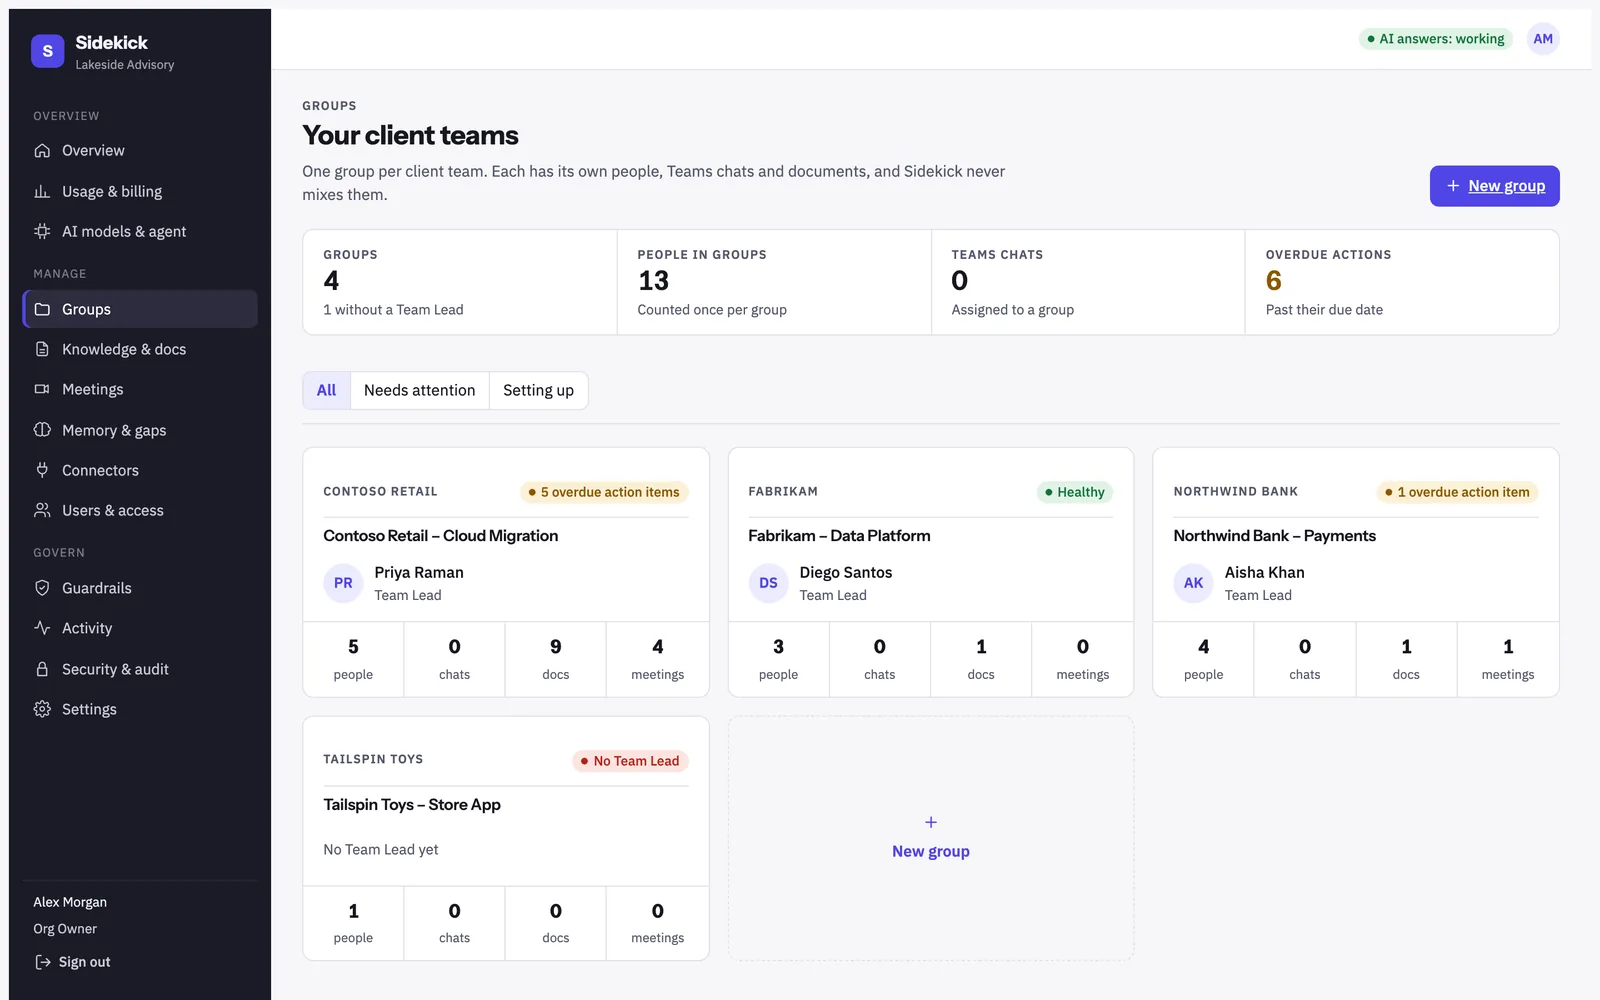
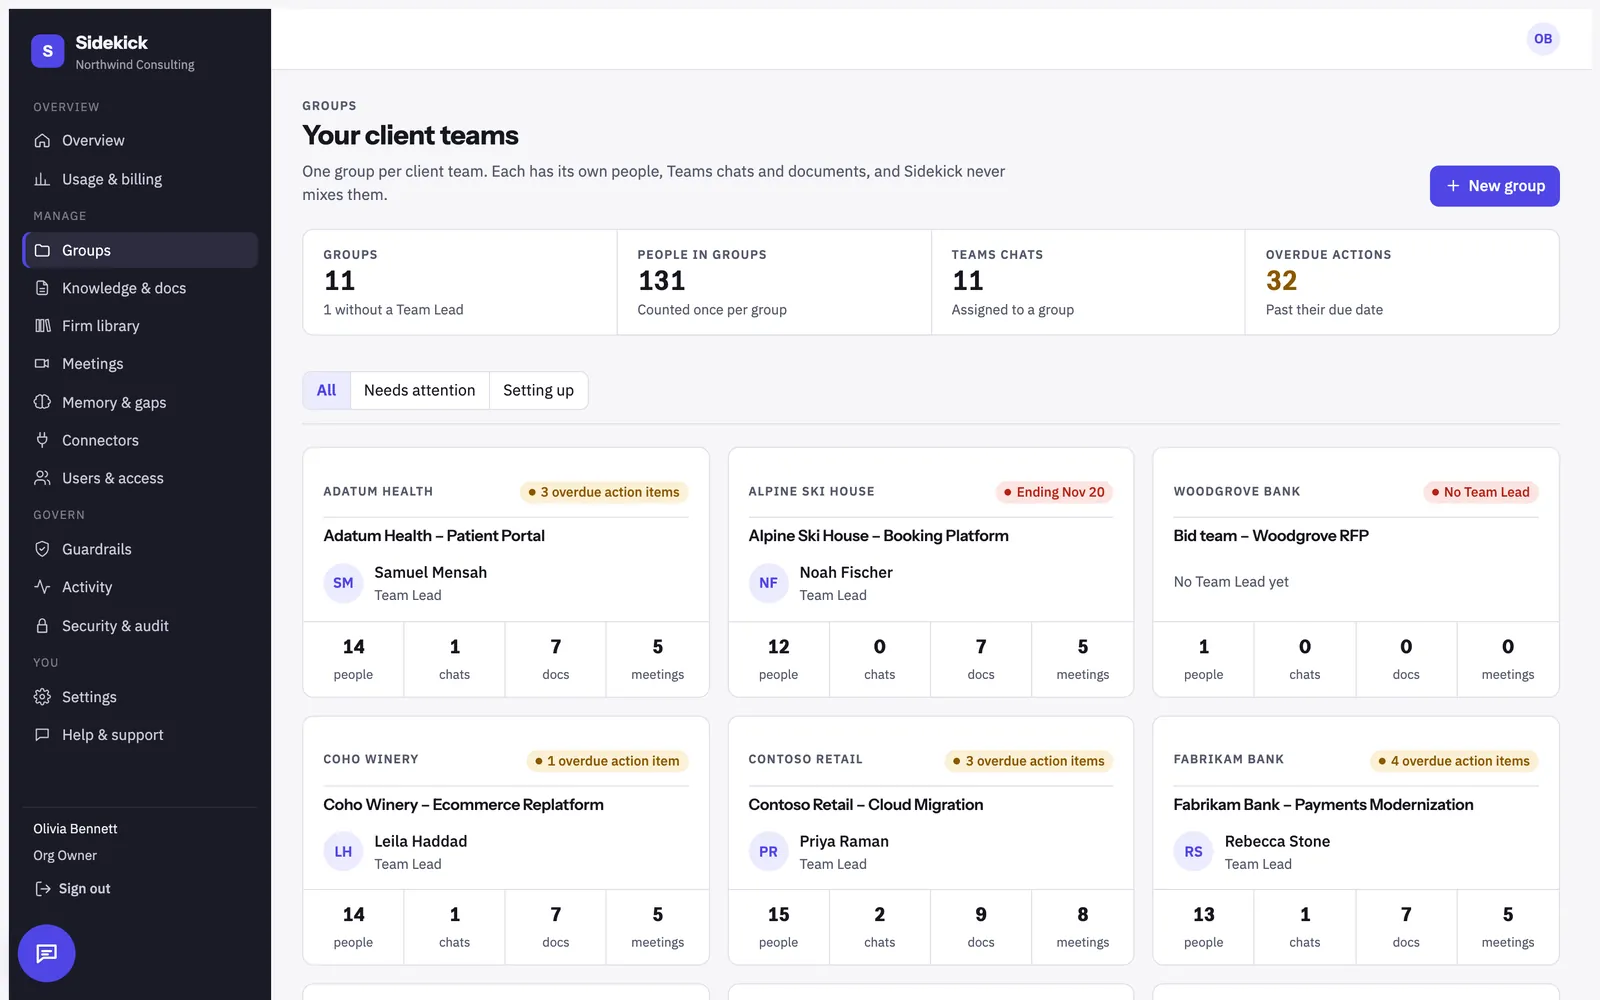
Website: product shots from the final capture (Oct 29)
Retake the demo-world shots (Groups, meeting notes, Meetings, Needs attention,
Connectors, phone meeting) on a fresh demo seed after the capture UI fixes, add
the Groups overview to demo-shots.cjs, and use the final capture's real Ask
answer for portal-ask. Same file names and sizes; Groups alt text names the
groups now on screen.

diff --git a/app/src/app/(public)/page.tsx b/app/src/app/(public)/page.tsx
@@ -117,7 +117,7 @@ export default function HomePage() {
             </ul>
           </div>
           <div>
-            <ProductShot name="portal-groups" frame="laptop" alt={`The ${BRAND.name} portal's Groups page: one card per client team (Contoso Retail, Fabrikam, Northwind Bank, Tailspin Toys) with its Team Lead, people, chats, documents, meetings and a health label.`} />
+            <ProductShot name="portal-groups" frame="laptop" alt={`The ${BRAND.name} portal's Groups page: one card per client team (Adatum Health, Alpine Ski House, Woodgrove Bank, Coho Winery, Contoso Retail, Fabrikam Bank) with its Team Lead, people, chats, documents, meetings and a health label.`} />
             <p style={{ margin: "14px 0 0", textAlign: "center" }}>Up and running in five steps. <Link href="/how-it-works">How it works →</Link></p>
           </div>
         </div>
